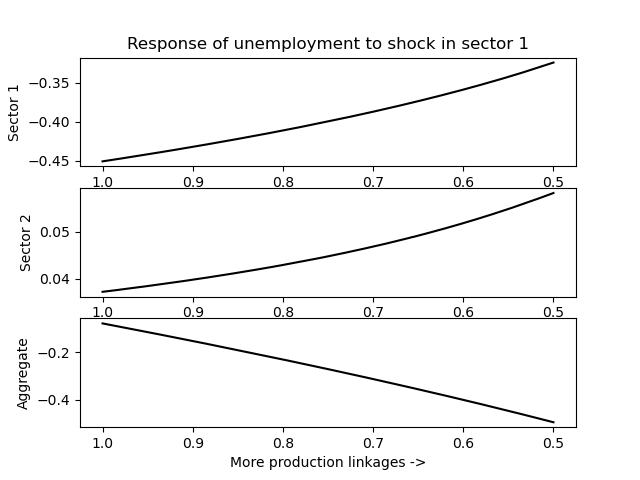
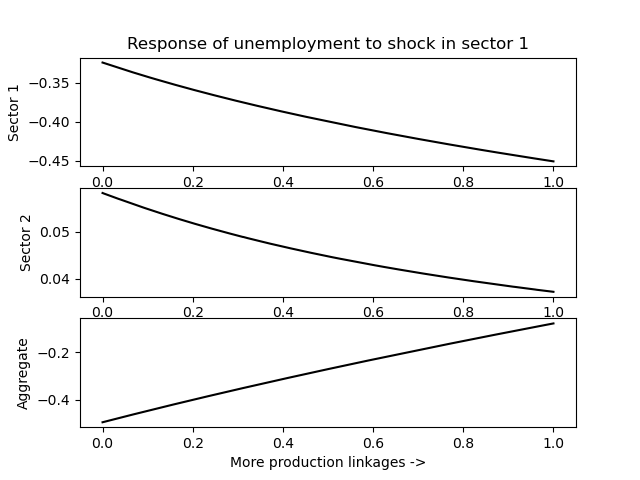
fixed some plot formatting

diff --git a/code/motivation_figures.py b/code/motivation_figures.py
@@ -283,19 +283,16 @@ plot3.invert_xaxis()
 plt.savefig('output/shock_b.png')
 
 fig_unemployment_shockb, (plot1, plot2, plot3) = plt.subplots(3, 1)
-plot1.plot(lamvec,ushockb[0,:],'-k')
+plot1.plot(bvec,ushockb[0,:],'-k')
 plot1.set_ylabel('Sector 1')
-plot1.invert_xaxis()
 plot1.set_title("Response of unemployment to shock in sector 1")
 
-plot2.plot(lamvec,ushockb[1,:],'-k')
+plot2.plot(bvec,ushockb[1,:],'-k')
 plot2.set_ylabel('Sector 2')
-plot2.invert_xaxis()
 
-plot3.plot(lamvec,uaggshockb[:],'-k')
+plot3.plot(bvec,uaggshockb[:],'-k')
 plot3.set_ylabel('Aggregate')
 plot3.set_xlabel('More production linkages ->')
-plot3.invert_xaxis()
 plt.savefig('output/unemployment_shockb.png')
 
 print('done')
